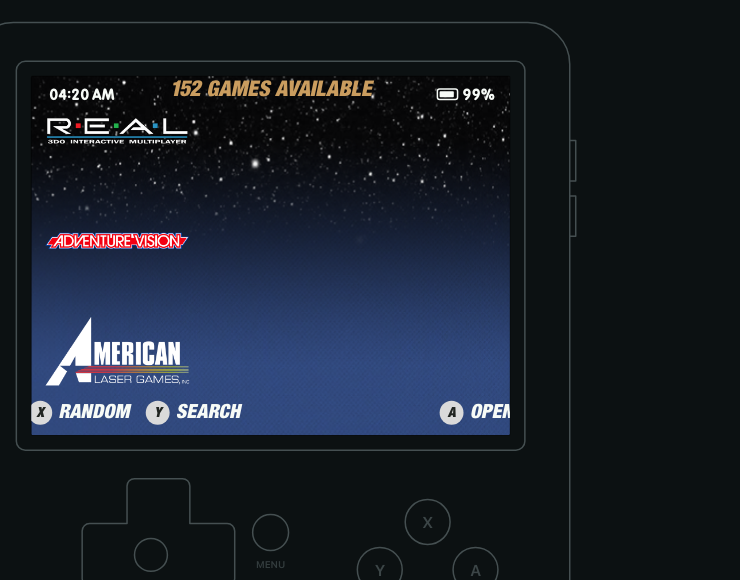
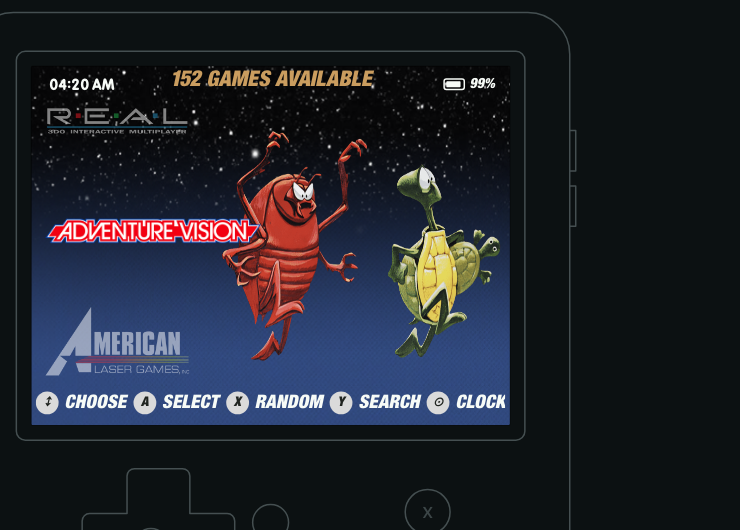
Add a stock-versus-this-build switch, and per-system extra art
One control in the header now decides which engine the preview and export
target, instead of the behaviour being implied. Stock dims unselected
entries, applies logoScale, emits the views' own prompt row with no pill,
leaves the battery in the UI font and writes a theme.xml free of this
build's properties; this build enables the additions. Importing picks the
side automatically - a theme using selection pills, listScroll, keyboard
styling or the screensaver clock is previewed on this build, anything else
as stock.

Also renders the per-system extra images themes ship (the Default theme's
console artwork): each system's theme.xml supplies the path and the root
theme supplies the placement.

Claude-Session: https://claude.ai/code/session_01L4af7zMGCqfxfsttHWTKjw

diff --git a/index.html b/index.html
@@ -247,6 +247,7 @@
     <span>R36S · 640×480 · live theme.xml</span>
   </div>
   <div class="presets" id="presets"></div>
+  <div class="presets" id="engine"></div>
   <div class="presets" id="io"></div>
 </header>
 
@@ -419,7 +420,7 @@
     clockX: 24, clockY: 8, clockSize: 20,
     battRight: 20, battY: 8, battSize: 20, battGap: 6,
     logoTint: true, helpPillOn: true, stockFade: false, stockPrompts: false,
-    logoScale: 1, stockBatteryFont: false,
+    logoScale: 1, stockBatteryFont: false, engine: "custom",
     siShow: false, siSize: 16, siY: 404, siAlign: "center", siUpper: true,
     siColor: "#F7FBF7", siColorA: 70, fSI: "BPreplay-Regular.otf",
     carLogos: false, carLogoW: 320, carLogoH: 72,
@@ -600,6 +601,8 @@
 
 
   var SYSTEM_LOGOS = [];   // [{ id, src }] read from the theme's own system folders
+  var SYSTEM_EXTRAS = [];  // [{ id, src, name }] per-system extra art (console shots)
+  var EXTRA_GEO = null;    // where the root theme places that extra
   function loadSystemLogos(files, rootDir) {
     var esc = rootDir.replace(/[.*+?^${}()|[\]\\]/g, "\\$&");
     var re = new RegExp("^" + esc + "/([^/]+)/theme\\.xml$", "i");
@@ -612,20 +615,32 @@
     return Promise.all(found.map(function (f) {
       return Promise.resolve(files[f.path]()).then(function (bytes) {
         var d = parseThemeXml(new TextDecoder().decode(bytes));
-        var imgs = d.getElementsByTagName("image"), ref = null;
+        var imgs = d.getElementsByTagName("image"), ref = null, extraRef = null, extraName = null;
         for (var i = 0; i < imgs.length; i++) {
-          if (imgs[i].getAttribute("name") === "logo") {
-            var pe = imgs[i].getElementsByTagName("path");
-            if (pe.length) { ref = pe[0].textContent.trim(); break; }
+          var nm = imgs[i].getAttribute("name");
+          var pe = imgs[i].getElementsByTagName("path");
+          if (!pe.length) continue;
+          if (nm === "logo" && !ref) ref = pe[0].textContent.trim();
+          else if (imgs[i].getAttribute("extra") === "true" && !extraRef) {
+            extraRef = pe[0].textContent.trim(); extraName = nm;
           }
         }
-        if (!ref) return null;
         var dir = f.path.slice(0, f.path.lastIndexOf("/"));
-        var rp = resolve(files, dir, ref);
-        if (!rp) return null;
-        return Promise.resolve(files[rp]()).then(function (b2) {
-          return { id: f.id, src: bytesToDataURL(b2, mimeOf(rp)) };
-        });
+        var out = { id: f.id, src: null, extra: null, extraName: extraName };
+        var work = [];
+        if (ref) {
+          var rp = resolve(files, dir, ref);
+          if (rp) work.push(Promise.resolve(files[rp]()).then(function (b2) {
+            out.src = bytesToDataURL(b2, mimeOf(rp));
+          }));
+        }
+        if (extraRef) {
+          var xp = resolve(files, dir, extraRef);
+          if (xp) work.push(Promise.resolve(files[xp]()).then(function (b3) {
+            out.extra = bytesToDataURL(b3, mimeOf(xp));
+          }));
+        }
+        return Promise.all(work).then(function () { return (out.src || out.extra) ? out : null; });
       }).catch(function () { return null; });
     })).then(function (list) { return list.filter(Boolean); });
   }
@@ -699,7 +714,7 @@
 
   function applyDoc(doc, files, baseDir) {
     clamped = [];
-    SYSTEM_LOGOS = [];
+    SYSTEM_LOGOS = []; SYSTEM_EXTRAS = []; EXTRA_GEO = null;
     var r = makeReader(doc, baseDir);
     var jobs = [];
 
@@ -743,9 +758,7 @@
       col(r.colour("system", "text", "logoText", "color"), "text");
     }
     var helpBg = r.colour("system", "helpsystem", null, "backgroundColor");
-    S.helpPillOn = !!helpBg;      // stock ES draws no pill behind the hints
-    S.stockFade = true;           // stock dims the unselected entries
-    S.stockPrompts = true;        // and its views decide which buttons show
+    S.helpPillOn = !!helpBg;
     if (helpBg) col(helpBg, "helpPill");
     col(r.colour("system", "helpsystem", null, "textColor"), "helpText");
     col(r.colour("system", "helpsystem", null, "iconColor"), "helpChip");
@@ -918,10 +931,27 @@
     }
 
     jobs.push(loadSystemLogos(files, baseDir).then(function (list) {
-      if (list.length) { SYSTEM_LOGOS = list; S.carLogos = true; }
+      var withLogo = list.filter(function (e) { return e.src; });
+      if (withLogo.length) { SYSTEM_LOGOS = withLogo; S.carLogos = true; }
+      SYSTEM_EXTRAS = list.filter(function (e) { return e.extra; });
+      if (SYSTEM_EXTRAS.length) {
+        var nm = SYSTEM_EXTRAS[0].extraName;
+        var pos = r.pair("system", "image", nm, "pos") || [0, 0];
+        var size = r.pair("system", "image", nm, "size") ||
+                   r.pair("system", "image", nm, "maxSize") || [1, 1];
+        var fit = r.pair("system", "image", nm, "size") ? "fill" : "contain";
+        EXTRA_GEO = { x: pos[0] * SW, y: pos[1] * SH, w: size[0] * SW, h: size[1] * SH, fit: fit };
+      } else EXTRA_GEO = null;
     }));
 
     return Promise.all(jobs).then(function () {
+      // a theme using this build's properties is previewed on this build
+      var usesExtensions = !!(r.el("screen", "keyboard", null) ||
+        r.prop("system", "carousel", null, "selectorColor") ||
+        r.prop("system", "carousel", null, "listScroll") ||
+        r.el("screen", "text", "screensaverClock"));
+      applyEngine(usesExtensions ? "custom" : "stock", true);
+
       var untouched = [];
       if (!r.el("screen", "keyboard", null)) untouched.push("keyboard");
       if (!r.el("screen", "text", "screensaverClock")) untouched.push("screensaver");
@@ -1023,6 +1053,24 @@
     ov.style.webkitMaskSize = ov.style.maskSize = "contain";
     d.appendChild(ov);
     return d;
+  }
+
+  // Stock EmulationStation versus this build. Everything this build adds is
+  // gated here, so the preview and the exported file match the engine chosen.
+  function applyEngine(which, keepTheme) {
+    S.engine = which;
+    var stock = which === "stock";
+    S.stockFade = stock;
+    S.stockPrompts = stock;
+    S.stockBatteryFont = stock;
+    if (stock) {
+      if (!keepTheme) { S.helpPillOn = false; S.pillA = 0; }
+      if (S.logoScale === 1) S.logoScale = 1.2;
+    } else {
+      S.helpPillOn = true;
+      if (S.pillA === 0) S.pillA = 100;
+      S.logoScale = 1;
+    }
   }
 
   function pillBg() {
@@ -1164,6 +1212,21 @@
 
   function sysList() {
     return SYSTEM_LOGOS.length ? SYSTEM_LOGOS.map(function (e) { return e.id; }) : SYSTEMS;
+  }
+
+  function drawSystemExtra(scr) {
+    if (!SYSTEM_EXTRAS.length || !EXTRA_GEO) return;
+    var names = sysList();
+    var id = names[((cursor % names.length) + names.length) % names.length];
+    var hit = SYSTEM_EXTRAS.filter(function (e) { return e.id === id; })[0];
+    if (!hit) return;
+    var im = el("img", {
+      left: EXTRA_GEO.x + "px", top: EXTRA_GEO.y + "px",
+      width: EXTRA_GEO.w + "px", height: EXTRA_GEO.h + "px",
+      objectFit: EXTRA_GEO.fit
+    });
+    im.src = hit.extra; im.alt = "";
+    scr.appendChild(im);
   }
 
   function drawCarousel(scr) {
@@ -1494,7 +1557,7 @@
     else if (page === "popup") { drawTopBar(scr); drawCarousel(scr); drawSystemInfo(scr); drawHelp(scr); drawPopup(scr); }
     else {
       drawTopBar(scr);
-      if (page === "carousel") { drawCarousel(scr); drawSystemInfo(scr); }
+      if (page === "carousel") { drawSystemExtra(scr); drawCarousel(scr); drawSystemInfo(scr); }
       else if (page === "gamelist") drawGamelist(scr);
       else { drawMenu(scr); drawMenuFooter(scr); }
       drawHelp(scr);
@@ -1620,6 +1683,9 @@
     [S.fCar, S.fGl, S.fGlHead, S.fClock, S.fBatt, S.fHelp, S.fMenu, S.fMenuTitle, S.fMenuFoot, S.fSaver, S.fPop]
       .forEach(function (id) { if (used.indexOf(id) < 0) used.push(id); });
     x.push('Fonts needed:   ' + used.join(', '));
+    x.push('Engine:         ' + (S.engine === "stock"
+      ? 'stock EmulationStation (no build-specific properties written)'
+      : 'R36S Enhanced build'));
     x.push('                (copy these into the theme\'s fonts/ folder)');
     x.push('-->');
     x.push('<theme>');
@@ -1827,6 +1893,7 @@
     x.push('\t<empty>./art/battery/battery-0.svg</empty>');
     x.push('    </batteryIndicator>');
     x.push('');
+    if (S.engine === "custom") {
     x.push('\t<keyboard name="keyboard">');
     x.push('\t<backspace>' + PATHS.kbBackspace + '</backspace>');
     x.push('\t<enter>' + PATHS.kbEnter + '</enter>');
@@ -1841,6 +1908,7 @@
     x.push('\t<keyPressColor>' + hex(css("kbPress")) + 'FF</keyPressColor>');
     x.push('\t<keyPressMs>' + S.kbFlash + '</keyPressMs>');
     x.push('    </keyboard>');
+    }
     x.push('');
     x.push('\t<volumeIndicator name="volumeIndicator">');
     x.push('\t<icon>' + PATHS.popVolume + '</icon>');
@@ -1851,12 +1919,14 @@
     x.push('\t<fontPath>./fonts/' + S.fPop + '</fontPath>');
     x.push('    </brightnessIndicator>');
     x.push('');
+    if (S.engine === "custom") {
     x.push('\t<text name="screensaverClock">');
     x.push('\t<fontPath>./fonts/' + S.fSaver + '</fontPath>');
     x.push('\t<fontSize>' + fontFrac(S.ssClock) + '</fontSize><!-- ' + S.ssClock + 'px; date renders at 36% -->');
     x.push('    </text>');
     x.push('\t<image name="screensaverBattery"><path>' + PATHS.ssBattIcon + '</path></image>');
     x.push('\t<image name="screensaverLock"><path>' + PATHS.ssLockIcon + '</path></image>');
+    }
     x.push('    </view>');
     x.push('</theme>');
 
@@ -2319,7 +2389,10 @@
       var b = el("button", null, name); b.className = "btn";
       b.addEventListener("click", function () {
         S = Object.assign({}, PRESETS[name]);
-        buildRail(); render(); toast(name + " loaded");
+        applyEngine("custom");
+        imported = null;
+        SYSTEM_LOGOS = []; SYSTEM_EXTRAS = []; EXTRA_GEO = null;
+        buildEngine(); buildRail(); render(); toast(name + " loaded");
       });
       box.appendChild(b);
     });
@@ -2374,6 +2447,25 @@
       });
       openThemeFiles(map);
     }).catch(function (e) { toast(e.message || "Could not read that zip"); });
+  }
+
+  function buildEngine() {
+    var box = document.getElementById("engine");
+    box.innerHTML = "";
+    var seg = el("div"); seg.className = "seg";
+    [["stock", "Stock ES"], ["custom", "This build"]].forEach(function (m) {
+      var b = el("button", null, m[1]);
+      b.setAttribute("aria-pressed", S.engine === m[0] ? "true" : "false");
+      b.title = m[0] === "stock"
+        ? "Preview and export for stock EmulationStation"
+        : "Preview and export for the R36S Enhanced build";
+      b.addEventListener("click", function () {
+        applyEngine(m[0]); buildEngine(); buildRail(); render();
+        toast(m[0] === "stock" ? "Previewing as stock EmulationStation" : "Previewing as the R36S Enhanced build");
+      });
+      seg.appendChild(b);
+    });
+    box.appendChild(seg);
   }
 
   function buildIO() {
@@ -2469,7 +2561,7 @@
   if (/sheet/i.test(location.hash)) setSheet(true);
 
   if (/general/i.test(location.hash)) railMode = "general";
-  buildPad(); buildIO();
+  buildPad(); buildIO(); buildEngine();
   buildPresets(); buildRail(); buildTabs(); render();
   // register the bundled faces, then redraw so measurements use real metrics
   Promise.all(FONT_LIB.map(registerFont)).then(function () { render(); });

diff --git a/README.md b/README.md
@@ -54,6 +54,16 @@ The five **Mono** themes load as presets, so you can start from one and adjust.
 
 ![The general settings panel](docs/screenshot-general.png)
 
+## Stock ES or this build
+
+A switch in the header decides which engine the preview and the export target.
+**Stock ES** dims unselected entries, enlarges the selected one by `logoScale`,
+draws the help prompts the views emit (a theme cannot drop any) with no pill,
+leaves the battery in the UI font, and writes a `theme.xml` with none of this
+build's own properties. **This build** turns on the additions: selection pills,
+gradients, fit-content pills, list navigation, keyboard styling and the
+screensaver clock. Importing a theme picks the right side for you.
+
 ## Opening an existing theme
 
 **Import .zip** or **Import folder** reads a theme you already have: its colours,
